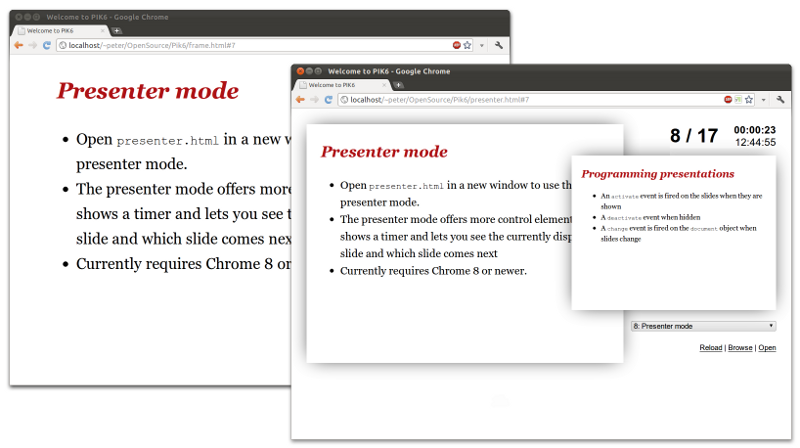
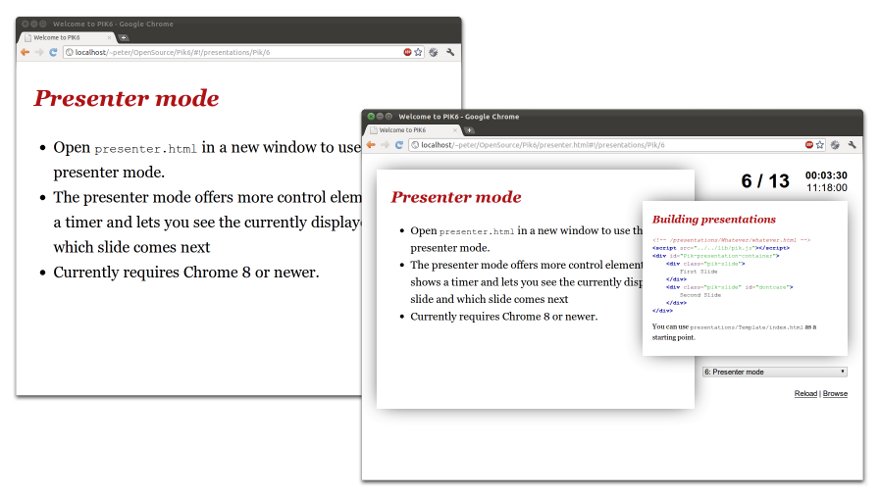
Updated screenshot and splash presentation

Changed region(s): [[0.0, 0.0, 1.0, 1.0], [0.0, 0.8438, 0.375, 0.875]]

diff --git a/lib/start.html b/lib/start.html
@@ -22,9 +22,9 @@
 			<a href="../presentations/Pik/">How to use</a>
 		</p>
 	</div>
-	<div class="pik-slide">
+	<!--<div class="pik-slide">-->
 		<!-- Just a blank slide for the presenter's preview frame -->
-	</div>
+	<!--</div>-->
 </div>
 </body>
 </html>
